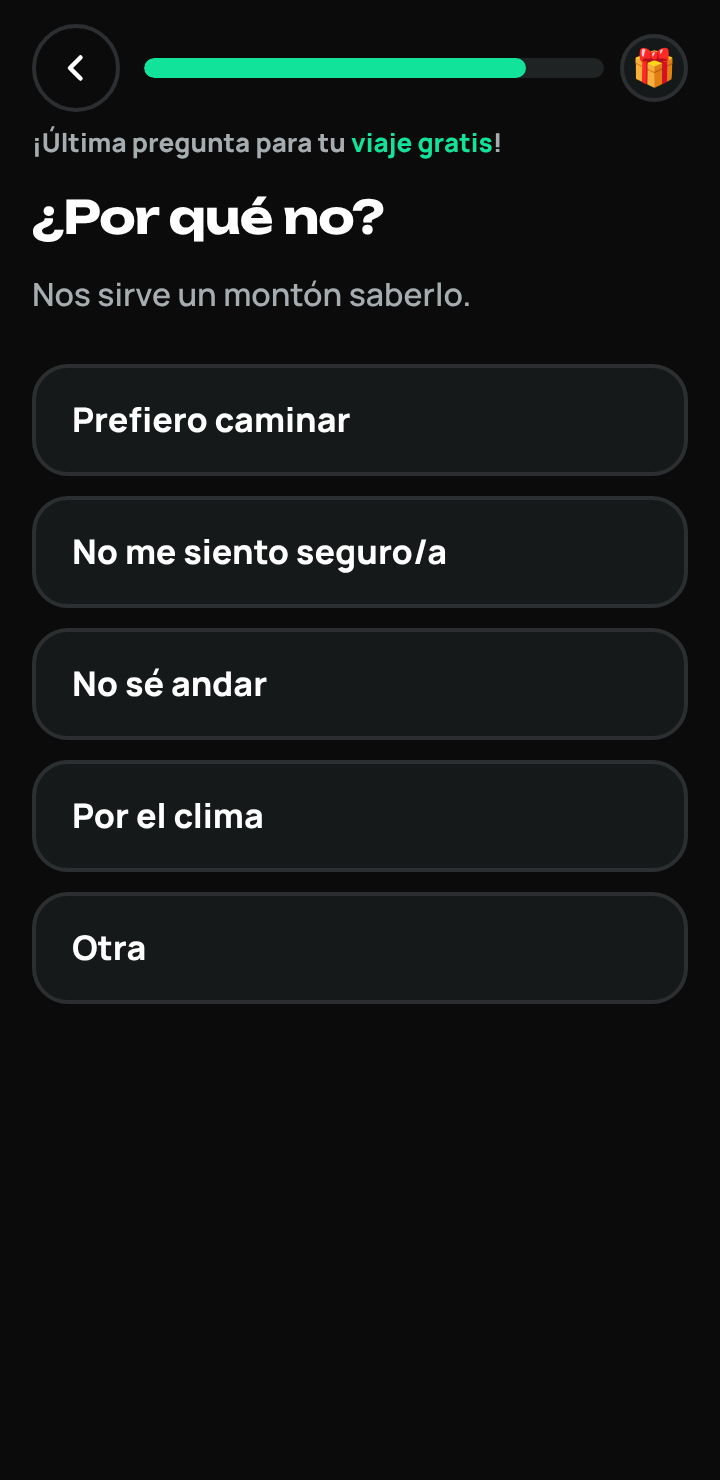
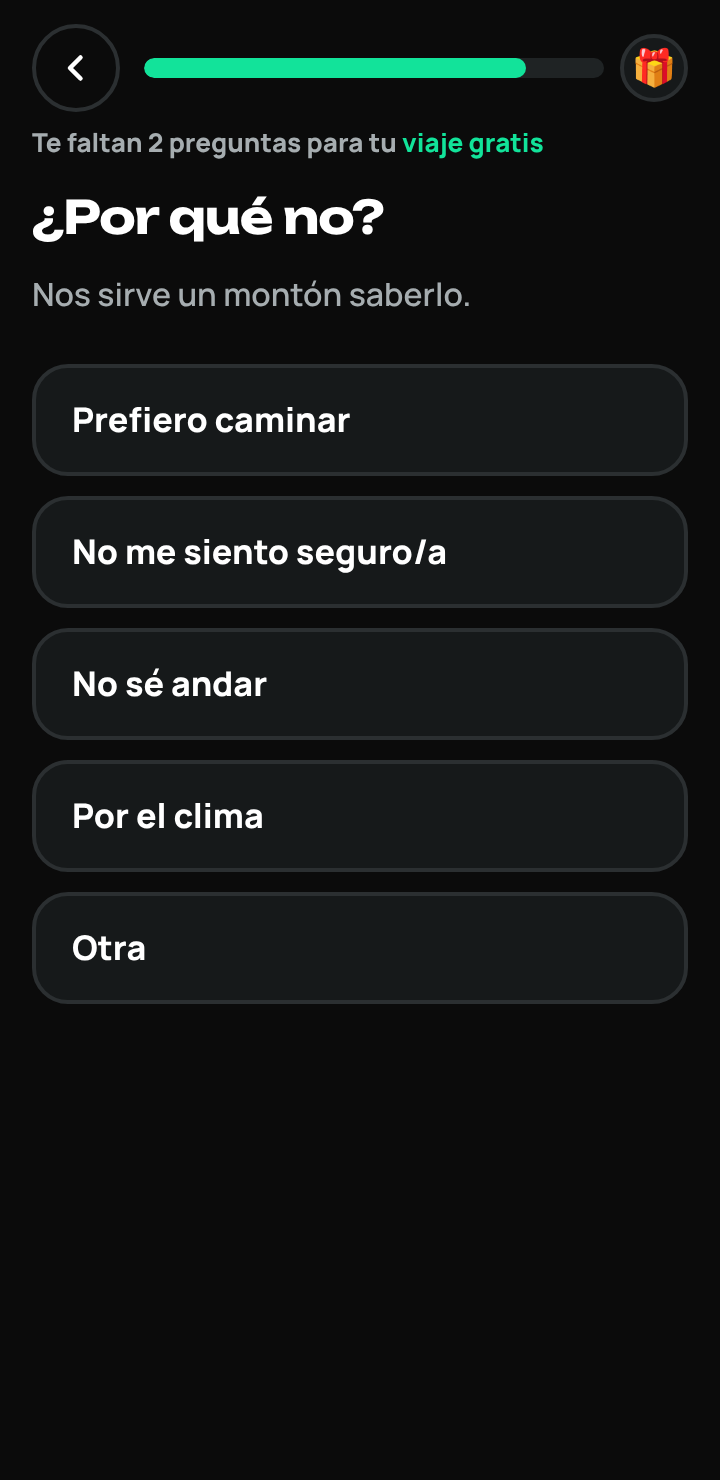
Barra: en preguntas condicionales cuenta la pantalla actual; capturas del flujo completo
Claude-Session: https://claude.ai/code/session_01E8kRmghxSjazKaN2ewPhbW

Changed region(s): [[0.0306, 0.0932, 0.7639, 0.1243]]

diff --git a/tests/simular-sesiones.js b/tests/simular-sesiones.js
@@ -224,8 +224,9 @@ async function recorrer(page, acciones) {
     const vistas = [];
     await recorrer(page, ['empezar', 'donde:calle-8', 'estacion', 'caminando', '1_o_menos', 'no']);
     check(await pantalla(page) === 'motivo_no', 'pregunta el motivo');
-    check(await page.textContent('#falta') === '¡Última pregunta para tu viaje gratis!', 'si dice "No", la cuenta descuenta el precio');
+    check(await page.textContent('#falta') === 'Te faltan 2 preguntas para tu viaje gratis', 'si dice "No": faltan el motivo y la edad (sin precio)');
     await recorrer(page, ['clima']);
+    check(await page.textContent('#falta') === '¡Última pregunta para tu viaje gratis!', 'la edad es la última');
     vistas.push(await pantalla(page));
     check(vistas[0] === 'edad', 'después del motivo va directo a edad (sin precio)');
     await recorrer(page, ['45+', 'sinwa']);

diff --git a/js/encuesta.js b/js/encuesta.js
@@ -166,7 +166,7 @@
     var i = lista.indexOf(id), condicional = DESPUES_DE[id];
     if (condicional) i = lista.indexOf(condicional) + 1;   // ya respondió la anterior
     else if (i < 0) return null;
-    var faltan = lista.length - i;                          // incluye la pantalla actual
+    var faltan = lista.length - i + (condicional ? 1 : 0);  // incluye la pantalla actual
     return { pct: Math.max(0.04, i / lista.length), faltan: faltan };
   }
   function textoFalta(faltan) {
